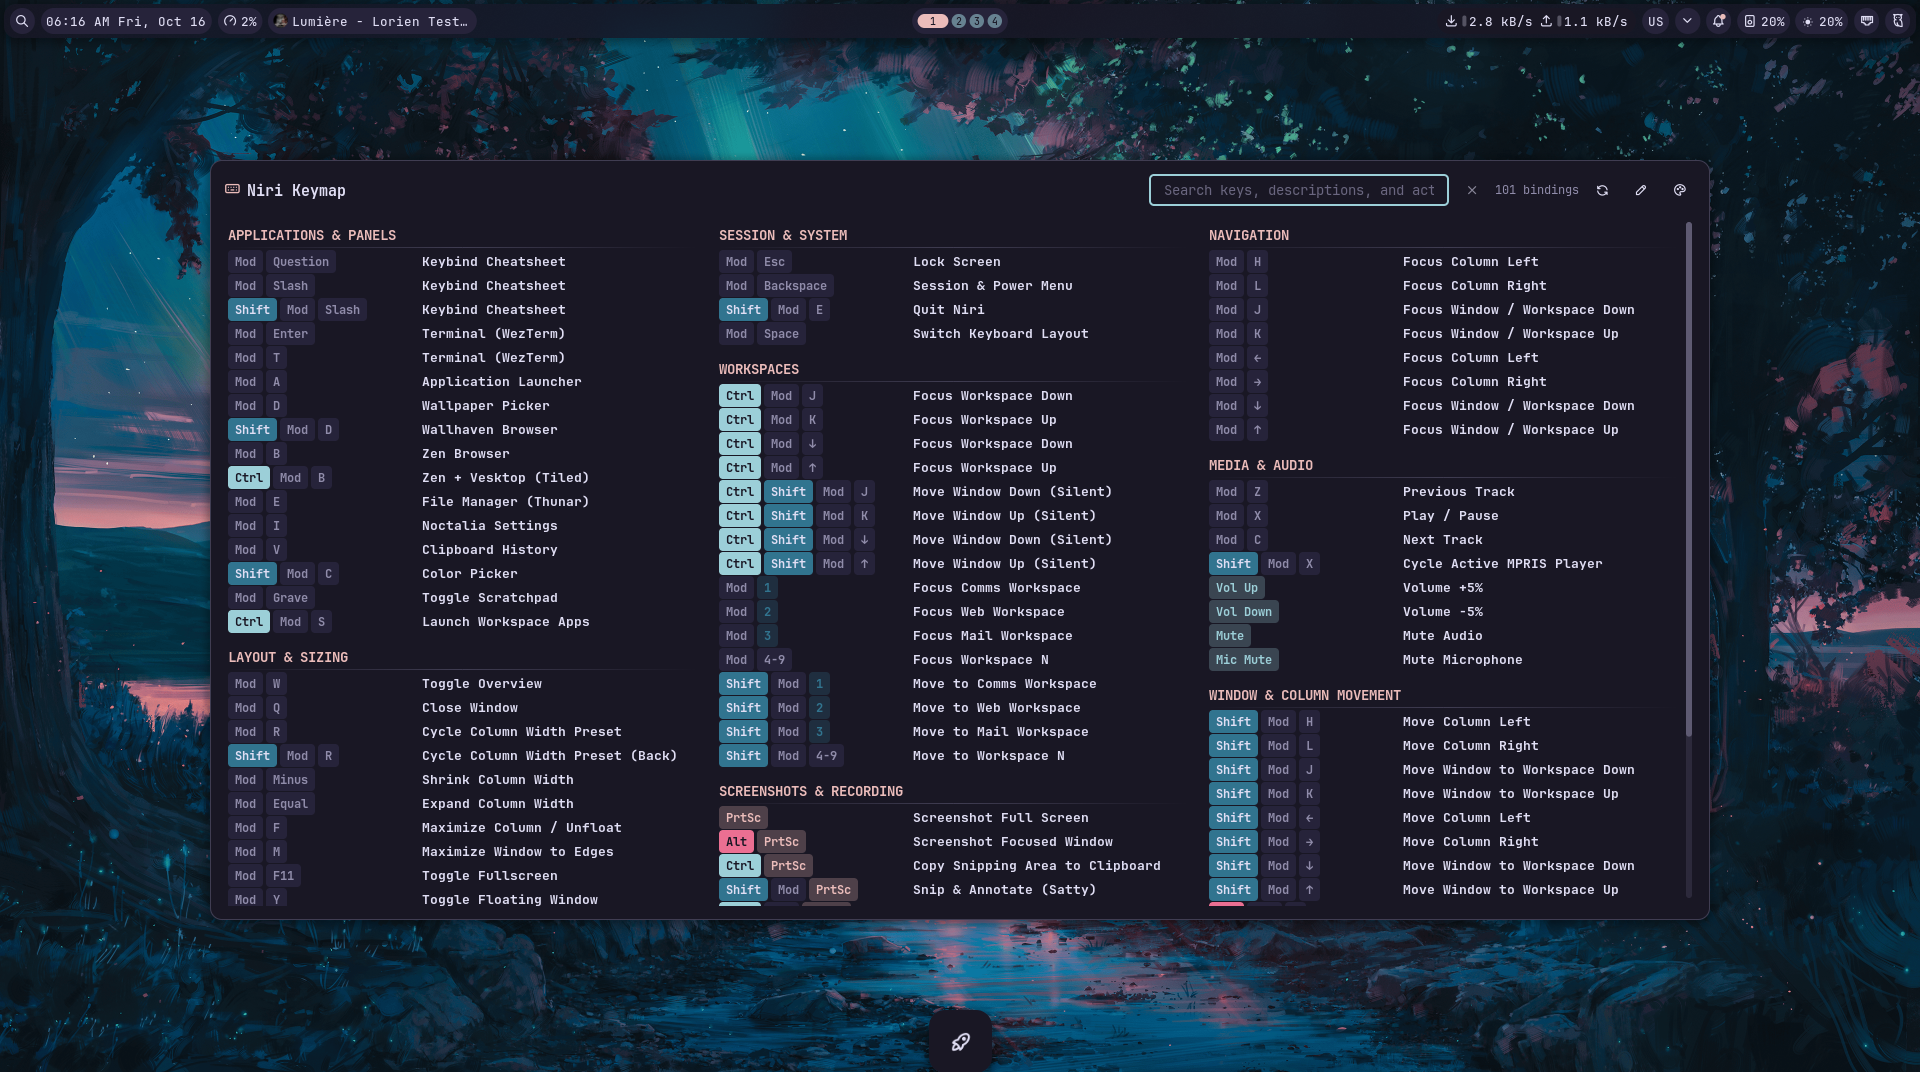
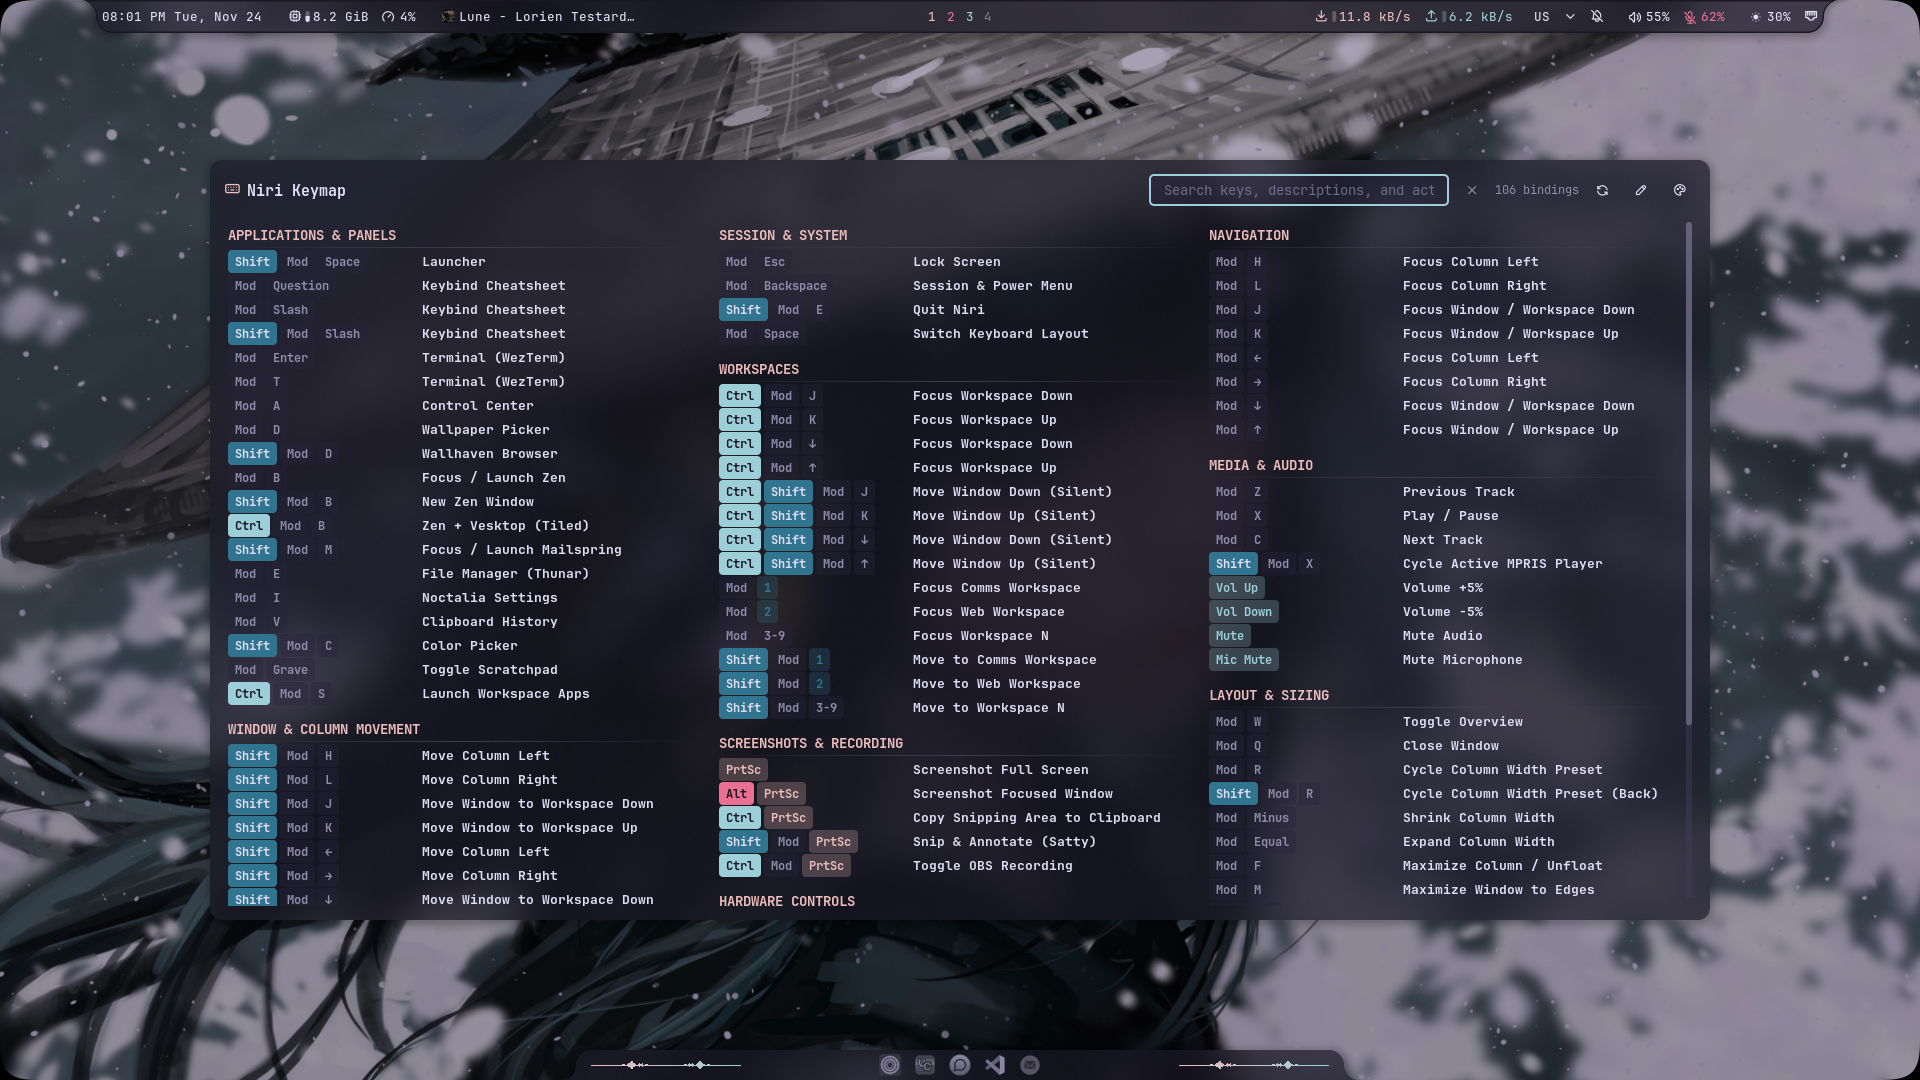
doc updates

diff --git a/ARCHITECTURE.md b/ARCHITECTURE.md
@@ -63,7 +63,8 @@ Where things live in this repo, plus custom tweaks and non-default behaviors wor
 - **Kernel pinned to LTS/stable (`pkgs.linuxPackages`)**: Set in [boot.nix](hosts/nixos/boot.nix) so NVIDIA drivers don't break on brand-new kernels.
 - **GRUB setup**: [boot.nix](hosts/nixos/boot.nix) avoids writing UEFI NVRAM entries and uses the Sekiro theme.
 - **Webcam anti-flicker**: [v4l2.nix](modules/nixos/services/v4l2.nix) installs `v4l-utils` and sets the webcam to 50 Hz (`power_line_frequency=1`) when plugged in and after waking from sleep. Remove `./v4l2.nix` from [services/default.nix](modules/nixos/services/default.nix) to disable it.
-- **Keyboard remaps (`keyd`)**: [keyd.nix](modules/nixos/services/keyd.nix) maps `j+k` to `Esc` and tweaks the Super/Meta key (`overload(meta, M-a)`). Remove `./keyd.nix` from [services/default.nix](modules/nixos/services/default.nix) if keys behave unexpectedly.
+- **Keyboard remaps (`keyd`)**: [keyd.nix](modules/nixos/services/keyd.nix) maps `j+k` to `Esc` and turns a quick tap of the Super key into `Mod+Shift+Space` (bound to the app launcher in [binds.kdl](modules/home/desktop/niri/binds.kdl)) while keeping `Mod+...` shortcuts (`Mod+A` for Control Center, etc.) working normally. Remove `./keyd.nix` from [services/default.nix](modules/nixos/services/default.nix) if keys behave unexpectedly.
+- **Headset mic & noise cancellation**: [pipewire.nix](modules/nixos/services/pipewire.nix) fixes Realtek ALC256 mixer priorities so a plugged-in headset mic is picked over the laptop's built-in mic, and adds a **DeepFilter Noise Cancelled Mic** virtual mic for background noise removal.
 - **ASUS laptop quirks**: [asus.nix](hosts/nixos/hardware/asus.nix) enables `asusd`, disables the `mt7921e` Wi-Fi driver, fixes keyboard backlight keys, and applies a headset mic fix. Skip `hardware/asus.nix` on another laptop.
 - **32-bit graphics**: Turned on in [modules/nixos/desktop/niri.nix](modules/nixos/desktop/niri.nix) for older Wine/Proton games.
 - **Cloudflare WARP**: Enabled in [warp.nix](modules/nixos/services/warp.nix). You still have to run `warp-cli register` once after a fresh install.
@@ -76,6 +77,9 @@ Where things live in this repo, plus custom tweaks and non-default behaviors wor
 - **Zram swap**: [base/default.nix](modules/nixos/base/default.nix) sets up 50% compressed RAM swap (`zram`) with no swap partition, and [responsiveness.nix](modules/nixos/services/responsiveness.nix) tunes Linux memory settings so zram swaps cleanly before disk caches freeze the UI.
 
 #### Desktop & Apps
+- **Noctalia transparency patch**: [modules/home/desktop/noctalia.nix](modules/home/desktop/noctalia.nix) patches Noctalia's source code so inner cards, buttons, text inputs, wallpaper folders, and plugin panels are see-through enough for Niri's blur to show through instead of looking like solid blocks. Because of this patch, Nix compiles Noctalia locally (~10 minutes) whenever Noctalia updates or the patch changes instead of using Cachix.
+- **Noctalia config vs GUI settings**: [config/noctalia/config.toml](config/noctalia/config.toml) configures the top bar, auto-hiding bottom taskbar bar, desktop widgets, idle timers, and Rosé Pine theme (verified on build via `checkConfig`). Anything you change in the Settings app gets saved in `~/.local/state/noctalia/settings.toml` and overrides `config.toml` until copied into the repo.
+- **Niri blur & focus border fix**: [config.kdl](modules/home/desktop/niri/config.kdl) and [theme.kdl](modules/home/desktop/niri/theme.kdl) enable rounded corners, background blur on WezTerm, Thunar, scratchpad, and Noctalia Settings, and `draw-border-with-background false` so Niri's focus border doesn't fill in behind see-through windows when focused.
 - **File picker & recent files**: [modules/nixos/desktop/niri.nix](modules/nixos/desktop/niri.nix) uses the GNOME file chooser portal (kept running in the background so dialogs open fast). [theme/default.nix](modules/home/theme/default.nix) turns off GTK recent-files history.
 - **Vesktop wrapper**: [packages/vesktop/default.nix](packages/vesktop/default.nix) edits `~/.config/vesktop/settings/settings.json` on startup to add a NixOS Rich Presence status, turns QuickCSS on, and writes a `:root body { --font: 'figtree'; }` block into `quickCss.css` so Discord keeps Midnight's `figtree` font instead of Noctalia's `JetBrainsMono Nerd Font`.
 - **Mailspring wrapper & theme**: [packages/mailspring/default.nix](packages/mailspring/default.nix) launches Mailspring with `--password-store=gnome-libsecret`, and [apps.nix](modules/home/programs/apps.nix) copies the Catppuccin Mocha theme into `~/.config/Mailspring/packages/`.
@@ -84,18 +88,20 @@ Where things live in this repo, plus custom tweaks and non-default behaviors wor
 - **MPD & urgent script alerts**: [mpd.nix](modules/home/services/mpd.nix) uses a socket at `~/.config/mpd/socket` instead of a TCP port. Scripts like `smart-playerctl` and the ASUS hotkeys send critical notifications so they still pop up in Do Not Disturb mode.
 
 #### Flake & Paths
-- **Caches & inputs**: Flake inputs follow `nixos-26.05` except `noctalia` and `llm-agents` (kept separate so they hit their binary caches). `@wheel` is in `trusted-users`, so `just build` uses Cachix after you switch once.
+- **Caches & local builds**: Flake inputs follow `nixos-26.05` except `noctalia` and `llm-agents` (kept separate so unpatched inputs hit their binary caches). Patched `noctalia` builds locally, along with small helpers like `perfmode` and `niri-float-sticky`. `@wheel` is in `trusted-users`, so `just build` uses Cachix after you switch once.
 - **Comma (`,`) & global compilers**: `, <cmd>` works out of the box via `nix-index-database` ([base/packages.nix](modules/nixos/base/packages.nix)), and `gcc`/`rustc`/`cargo`/`uv`/`typst` are installed globally in [apps.nix](modules/home/programs/apps.nix) alongside `templates/`.
 - **Repo must live at `~/dotfiles`**: Several configs are linked straight to `~/dotfiles` so you can edit them without rebuilding. Moving the repo breaks those links until updated.
 - **State versions**: `system.stateVersion` and `home.stateVersion` stay pinned at `"26.05"`. Don't bump them on updates.
 
 ### Reusing on Another Machine
 
-Everything under `hosts/nixos/` is tied to this laptop. Update before using elsewhere:
+Everything under `hosts/nixos/` (plus a few hardware/output names in `modules/` and `config/`) is tied to this laptop. See the [Fresh Install guide in README.md](README.md#fresh-install) for step-by-step instructions; in short, update or remove:
 - `hosts/nixos/hardware-configuration.nix` - regenerate with `nixos-generate-config`
-- `hosts/nixos/storage.nix` - disk UUIDs and Btrfs subvolumes
-- `hosts/nixos/hardware/nvidia.nix` - GPU PCI bus IDs (`lspci`)
-- `hosts/nixos/hardware/asus.nix` - ASUS laptop quirks (drop if not ASUS)
+- `hosts/nixos/storage.nix` - disk UUIDs and Btrfs subvolumes (or remove from `hosts/nixos/default.nix`)
+- `hosts/nixos/boot.nix` - `efiSysMountPoint` (`/boot/efi` vs `/boot`)
+- `hosts/nixos/hardware/nvidia.nix` - GPU PCI bus IDs (`lspci`, plus Intel VA-API packages in `modules/nixos/desktop/niri.nix`)
+- `hosts/nixos/hardware/asus.nix` & `modules/nixos/services/pipewire.nix` - ASUS quirks (`mt7921e` blacklist) and ALC256 `ACP_PATHS_DIR` mixer override
+- `config/noctalia/config.toml` & `modules/home/desktop/niri/config.kdl` - monitor (`eDP-1`), battery (`BAT1`), and `~/Pictures/` paths
 - `flake.nix` - `username`, `fullName`, `email` (plus keeping the clone at `~/dotfiles`)
 
 ### Manually Pinned Packages

diff --git a/README.md b/README.md
@@ -1,14 +1,16 @@
 <div align="center">
   <h2>NixOS | Niri | Noctalia</h2>
   <br/><br/>
-  <img src="assets/screenshots/terminal.png" alt="Desktop Preview" width="100%"/>
+  <img src="assets/screenshots/desktop.png" alt="Desktop & Bars Preview" width="100%"/>
+  <br/><br/>
+  <img src="assets/screenshots/terminal.png" alt="Terminal & Fetch Preview" width="100%"/>
 </div>
 
 ### Stuff
 
 - [NixOS](https://nixos.org/)
 - [Niri](https://github.com/YaLTeR/niri)
-- [Noctalia](https://github.com/Noctalia/noctalia)
+- [Noctalia](https://github.com/noctalia-dev/noctalia)
 - [WezTerm](https://wezfurlong.org/wezterm/)
 - [Fish](https://fishshell.com/)
 - [Zellij](https://zellij.dev/)
@@ -54,6 +56,40 @@ Enter the dev shell (`nix develop` or `just develop`) to get `just`, `nixfmt`, `
 | `just boot` | rebuild, activate on next boot only |
 | `just update` | `nix flake update` |
 | `just clean` | keep last 5 generations, run GC |
+
+### Build Notes
+
+- **Noctalia builds from source on your machine (~10 minutes on the first build or after updating Noctalia):** [noctalia.nix](modules/home/desktop/noctalia.nix) patches Noctalia's source so cards, buttons, and panels stay see-through over blurred backgrounds. Because it's modified, Nix can't download the prebuilt binary from Cachix and has to compile it locally. Once built, it stays cached until you update Noctalia or change the patch.
+- **Other packages that build or repackage locally:**
+  - `perfmode` ([packages/perfmode/default.nix](packages/perfmode/default.nix)) and `niri-float-sticky` ([flake.nix](flake.nix)) compile small helpers from source (quick, a few seconds).
+  - `zapfast` ([packages/zapfast/default.nix](packages/zapfast/default.nix)) and `metrolist` ([flake.nix](flake.nix)) repackage prebuilt binaries locally (fast, no compilation).
+
+### Fresh Install
+
+The easiest way to install this setup on a new machine is from an existing basic NixOS install (so your user, password, and `/etc/nixos/hardware-configuration.nix` already exist):
+
+1. **Clone to `~/dotfiles`** (required because several app configs link directly to `~/dotfiles/config/...`):
+   ```bash
+   git clone <repo-url> ~/dotfiles
+   cd ~/dotfiles
+   ```
+2. **Copy your generated hardware config:**
+   ```bash
+   cp /etc/nixos/hardware-configuration.nix hosts/nixos/hardware-configuration.nix
+   ```
+3. **Update the machine-specific settings before building:**
+   - [flake.nix](flake.nix) - change `username`, `fullName`, and `email` under `hosts.nixos`.
+   - [hosts/nixos/storage.nix](hosts/nixos/storage.nix) - replace with your own extra mounts/subvolumes, or remove `./storage.nix` from [hosts/nixos/default.nix](hosts/nixos/default.nix) (leaving the hardcoded UUIDs will cause boot to fail).
+   - [hosts/nixos/boot.nix](hosts/nixos/boot.nix) - check `efiSysMountPoint = "/boot/efi"`. Standard NixOS installs mount EFI at `/boot`, so update it to match your `hardware-configuration.nix`.
+   - [hosts/nixos/hardware/nvidia.nix](hosts/nixos/hardware/nvidia.nix) - update `intelBusId` and `nvidiaBusId` (`lspci`), or remove `./hardware/nvidia.nix` from [hosts/nixos/default.nix](hosts/nixos/default.nix) if you don't have hybrid Intel + NVIDIA graphics.
+   - [hosts/nixos/hardware/asus.nix](hosts/nixos/hardware/asus.nix) - remove from [hosts/nixos/default.nix](hosts/nixos/default.nix) if not on an ASUS laptop (it blacklists the `mt7921e` Wi-Fi driver, which will disable Wi-Fi on laptops that use that card).
+   - [modules/nixos/services/pipewire.nix](modules/nixos/services/pipewire.nix) - remove the `ACP_PATHS_DIR` mixer override line on non-ASUS ALC256 hardware.
+   - [config/noctalia/config.toml](config/noctalia/config.toml) & [modules/home/desktop/niri/config.kdl](modules/home/desktop/niri/config.kdl) - replace `eDP-1` with your monitor output name (`niri msg outputs`), and update the wallpaper/avatar paths under `~/Pictures/`.
+4. **Build and switch** (pass `--accept-flake-config` on the first build so Nix uses the Cachix caches from `flake.nix` before your system config enables them):
+   ```bash
+   sudo nixos-rebuild switch --flake .#nixos --accept-flake-config
+   ```
+   *(If installing directly from a Live USB with `nixos-install --flake .#nixos`, run `nixos-enter --root /mnt -c 'passwd <username>'` before rebooting since [user.nix](hosts/nixos/user.nix) doesn't set a default password.)*
 
 ### Docs
 
